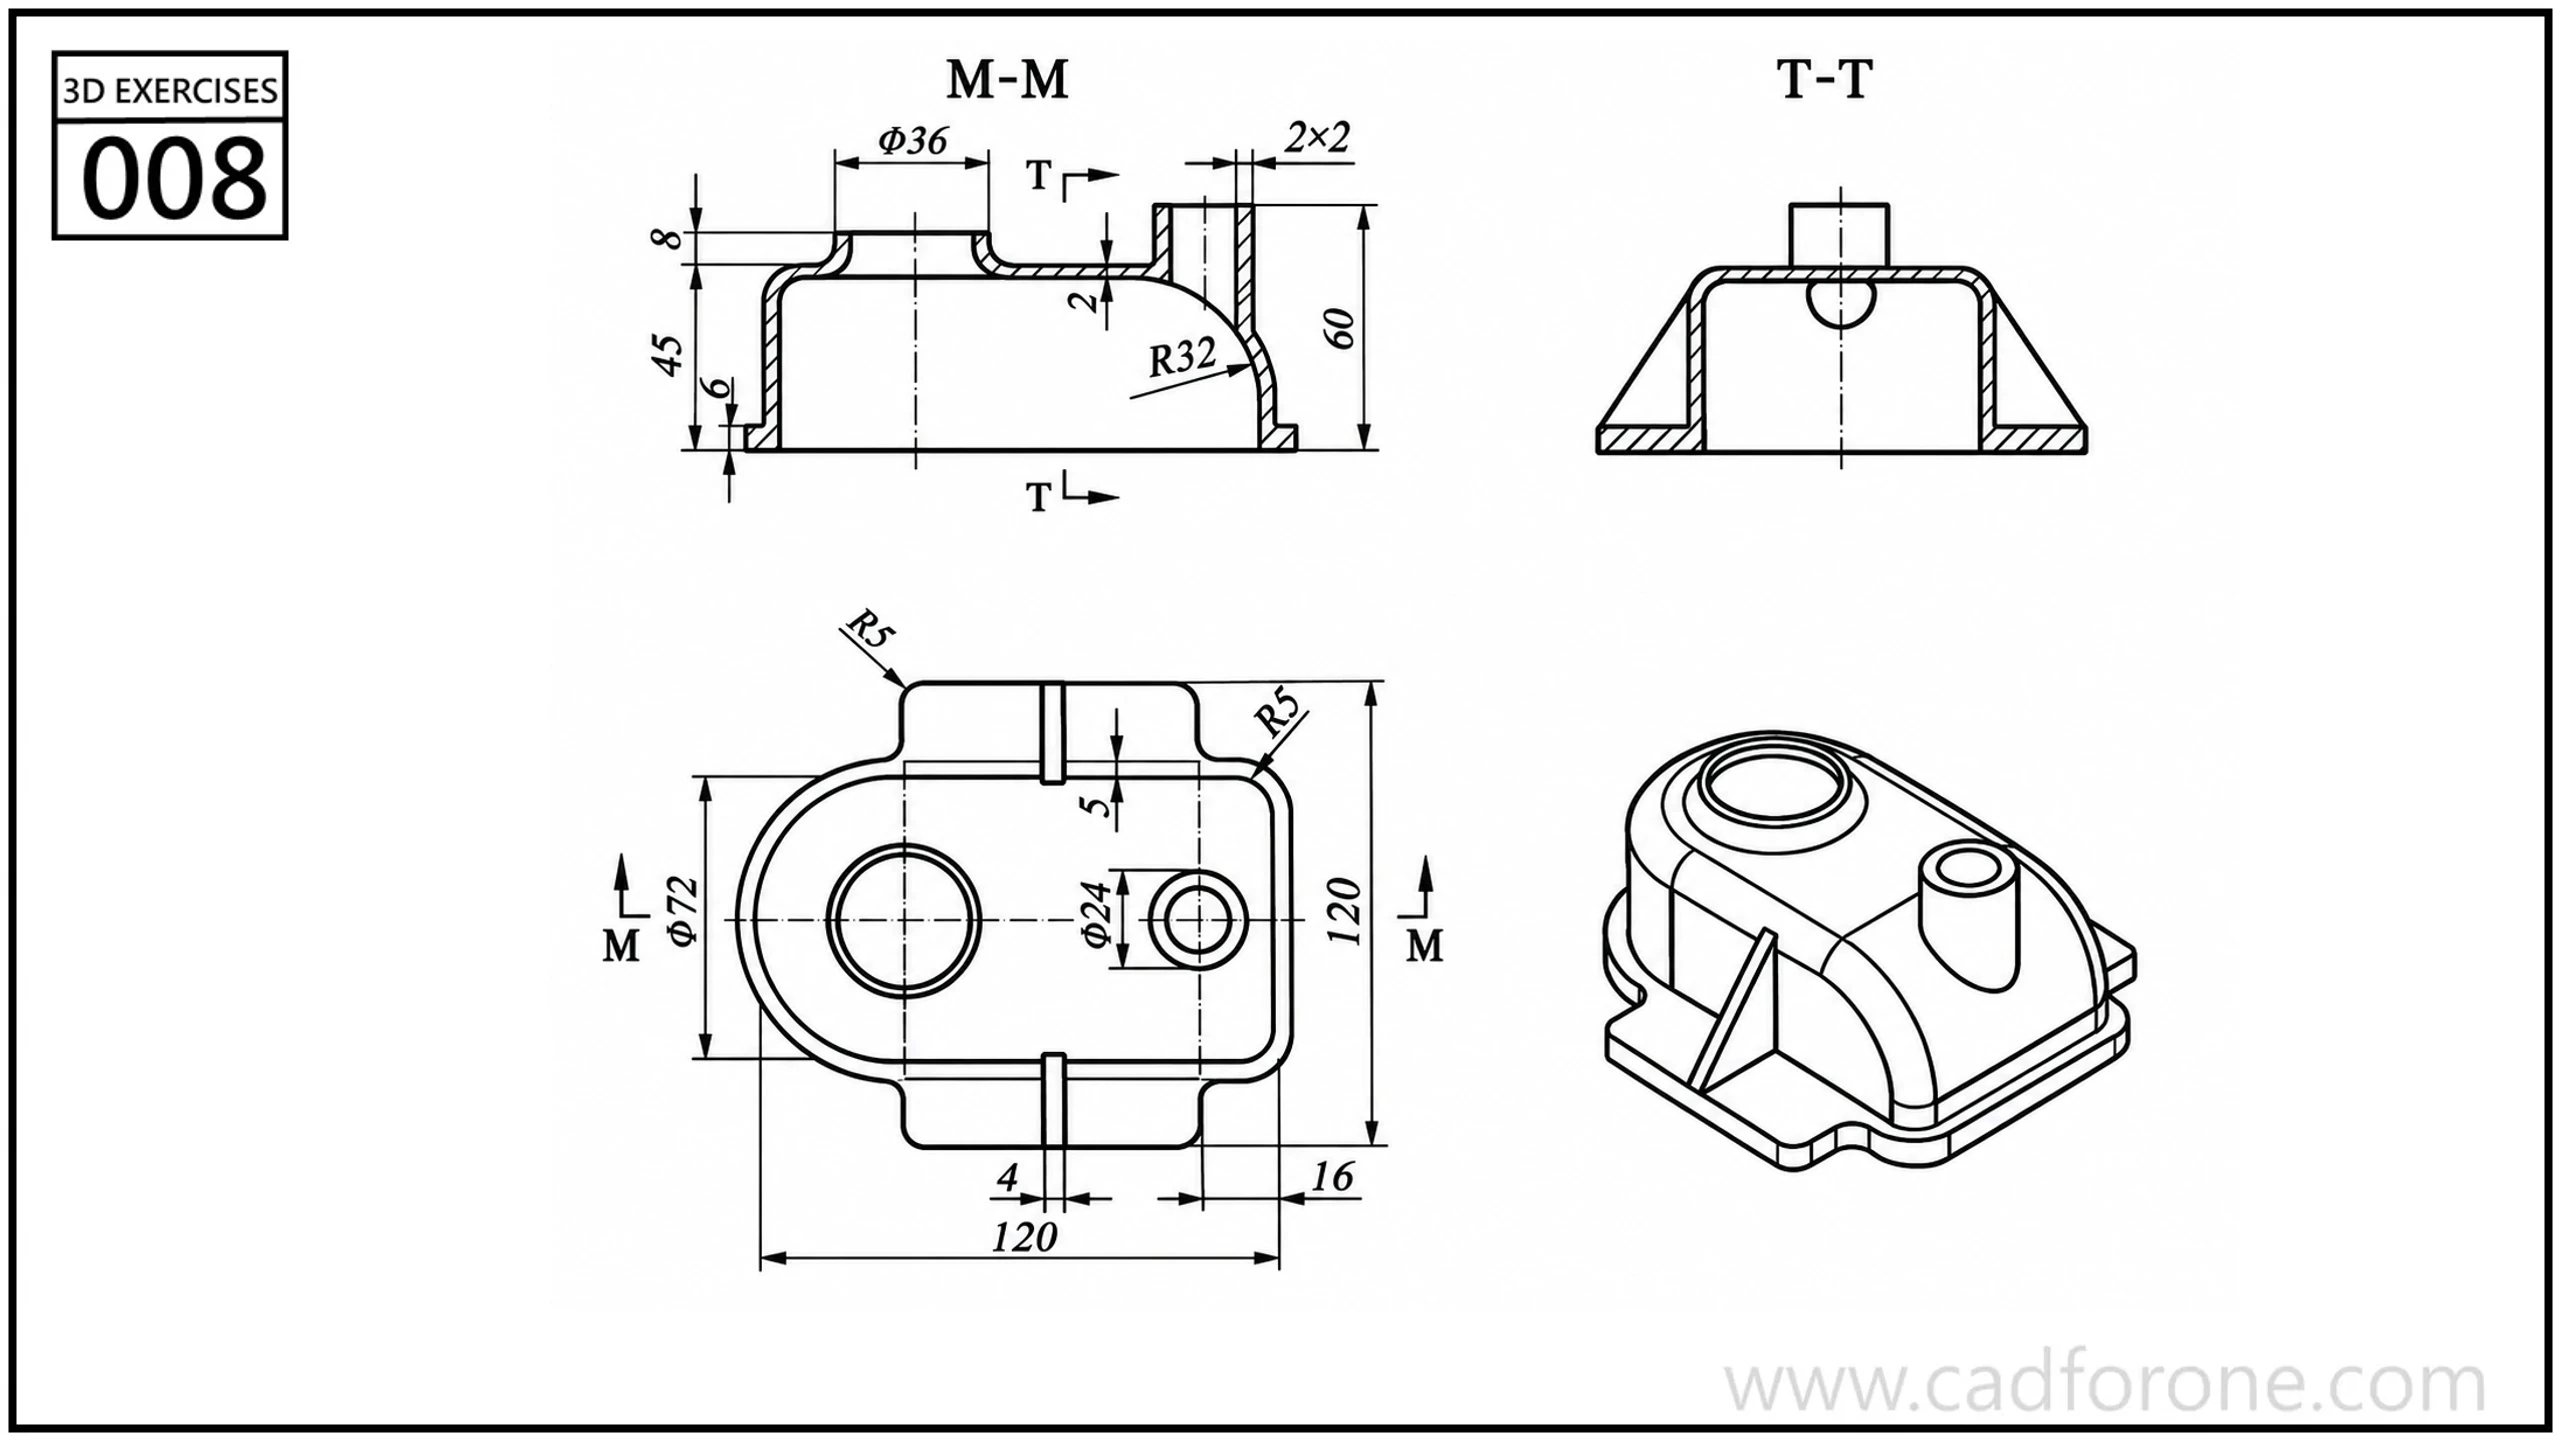
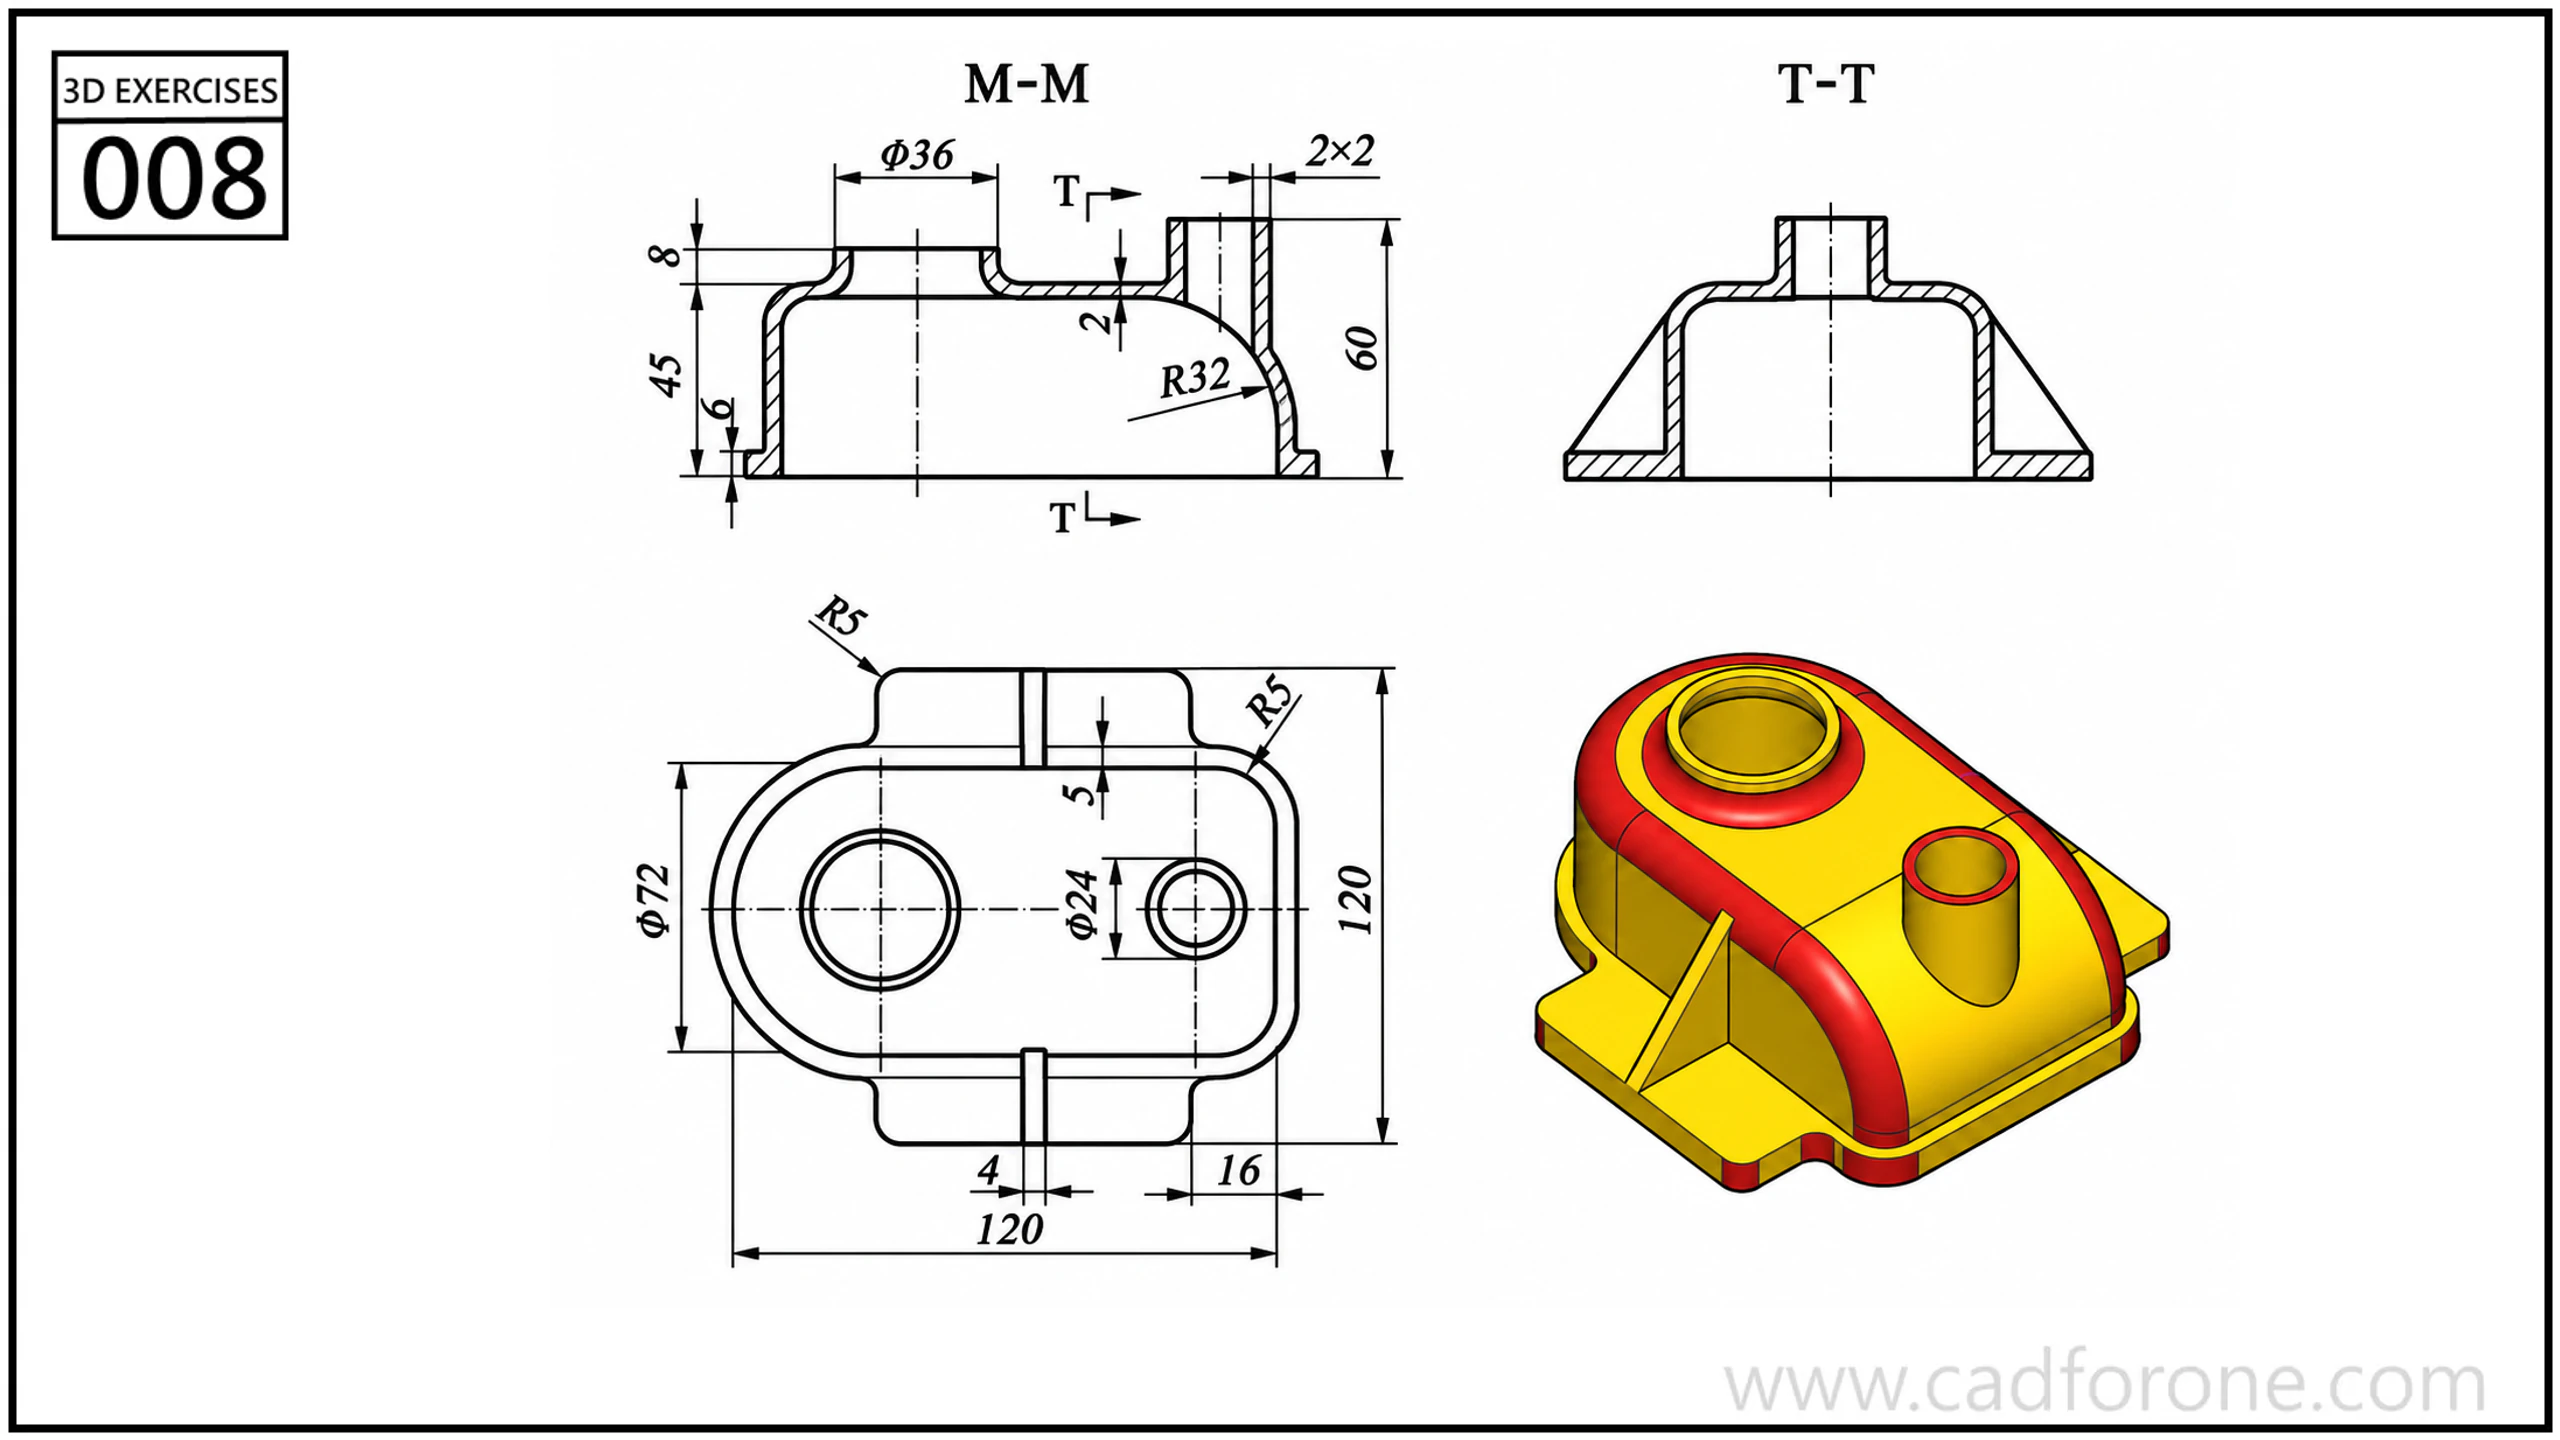
Update exercise 008 with revised color drawing

diff --git a/content/drawings/3d-exercise-008/index.md b/content/drawings/3d-exercise-008/index.md
@@ -12,7 +12,7 @@ preview_image: drawing.webp
 tutorials: []
 model_files: []
 source:
-  name: "17.png"
+  name: "17-2.png"
 license:
   name: "Website display authorized by the site owner"
   website_display_allowed: true
